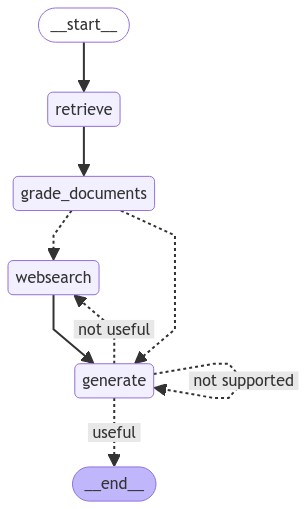
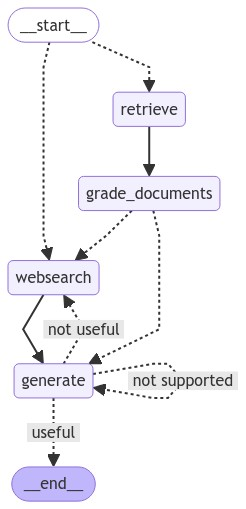
adaptive rag

diff --git a/advanced-rag/graph/graph_builder.py b/advanced-rag/graph/graph_builder.py
@@ -1,4 +1,7 @@
 from dotenv import load_dotenv
+
+from graph.chains.router import RouteQuery, question_router
+
 load_dotenv(override=True)
 
 from graph.chains.answer_grader import answer_grader
@@ -50,13 +53,35 @@ def grade_generation_grounded_in_documents_and_question(state: GraphState) -> st
         print ("---DECISION: GENERATION IS NOT GROUNDED IN DOCUMENTS---")
         return "not supported"
 
+def route_question(state: GraphState) -> str:
+    print ("---ROUTE QUESTION---")
+
+    question = state["question"]
+
+    source: RouteQuery = question_router.invoke({"question": question})
+
+    if source.datasource == WEBSEARCH:
+        print ("---ROUTE QUESTION TO WEB SEARCH---")
+        return WEBSEARCH
+    elif source.datasource == "vectorstore":
+        print ("---ROUTE QUESTION TO VECTOR STORE---")
+        return RETRIEVE
+
+
 workflow = StateGraph(GraphState)
+
 workflow.add_node(RETRIEVE, retrieve)
 workflow.add_node(GRADE_DOCUMENTS, grade_documents)
 workflow.add_node(GENERATE, generate)
 workflow.add_node(WEBSEARCH, web_search)
 
-workflow.set_entry_point(RETRIEVE)
+workflow.set_conditional_entry_point(
+    route_question,
+    {
+        WEBSEARCH: WEBSEARCH,
+        RETRIEVE: RETRIEVE
+    }
+)
 workflow.add_edge(RETRIEVE, GRADE_DOCUMENTS)
 workflow.add_conditional_edges(
     GRADE_DOCUMENTS,
@@ -69,7 +94,6 @@ workflow.add_conditional_edges(
         GENERATE: GENERATE
     }
 )
-
 workflow.add_conditional_edges(
     GENERATE,
     grade_generation_grounded_in_documents_and_question,
@@ -79,7 +103,6 @@ workflow.add_conditional_edges(
         "not supported": GENERATE
     }
 )
-
 workflow.add_edge(WEBSEARCH, GENERATE)
 
 app = workflow.compile()

diff --git a/advanced-rag/graph/chains/router.py b/advanced-rag/graph/chains/router.py
@@ -1,0 +1,31 @@
+from typing import Literal
+
+from langchain_core.prompts import ChatPromptTemplate
+from langchain_core.pydantic_v1 import BaseModel, Field
+from langchain_openai import ChatOpenAI
+
+class RouteQuery(BaseModel):
+    """Route a user's query to the most relevant datastore"""
+
+    # The ellipsis means that this field will be required once we instantiate this class
+    datasource: Literal["vectorstore", "websearch"] = Field(
+        ...,
+        description="Given a user question choose to route it to web search or a vectorstore"
+    )
+
+llm = ChatOpenAI(model="gpt-4o", temperature=0)
+# The LLM will use the GradeDocuments model to return the output in that form
+structured_llm_router = llm.with_structured_output(RouteQuery)
+
+system = """You are an expert at routing a user question to a vectorstore or web search.
+The vectorstore contains documents related to agents, prompt engineering, and adversarial attacks.
+Use the vectorstore for questions on these topics. For all else, use web-search."""
+
+route_prompt = ChatPromptTemplate.from_messages(
+    [
+        ("system", system),
+        ("human", "{question}"),
+    ]
+)
+
+question_router = route_prompt | structured_llm_router

diff --git a/advanced-rag/graph/chains/tests/test_chains.py b/advanced-rag/graph/chains/tests/test_chains.py
@@ -1,6 +1,7 @@
 from dotenv import load_dotenv
 load_dotenv()
 
+from graph.chains.router import RouteQuery, question_router
 from graph.chains.hallucination_grader import GradeHallucinations, hallucination_grader
 
 from graph.chains.retrieval_grader import GradeDocuments, retrieval_grader
@@ -82,3 +83,17 @@ def test_hallucination_grader_answer_no() -> None:
     })
 
     assert res.binary_score == "no"
+
+def test_router_to_vectorstore() -> None:
+    question = "agent memory"
+
+    res: RouteQuery = question_router.invoke({"question": question})
+
+    assert res.datasource == "vectorstore"
+
+def test_router_to_websearch() -> None:
+    question = "How to make a pizza?"
+
+    res: RouteQuery = question_router.invoke({"question": question})
+
+    assert res.datasource == "websearch"

diff --git a/advanced-rag/main.py b/advanced-rag/main.py
@@ -7,6 +7,6 @@ if __name__ == "__main__":
     print ("Advanced RAG")
 
     print (app.invoke(input={
-        "question": "What is agent memory?"
-        #"question": "How to make pizza?"
+        #"question": "What is agent memory?"
+        "question": "How to make pizza?"
     }))

diff --git a/advanced_rag.md b/advanced_rag.md
@@ -32,3 +32,9 @@ Self RAG
     * If yes, we send the answer to the LLM again and ask it to correct it.
   - Next we check if the answer answered the original question
     * If no, we ask for another web search and generate a new answer
+
+Adaptive RAG
+------------
+* Routes the question to different RAG flows depending on its content.
+  - First we check if the question is related to the vector store 
+  - If not, we'll go online to find the answer
